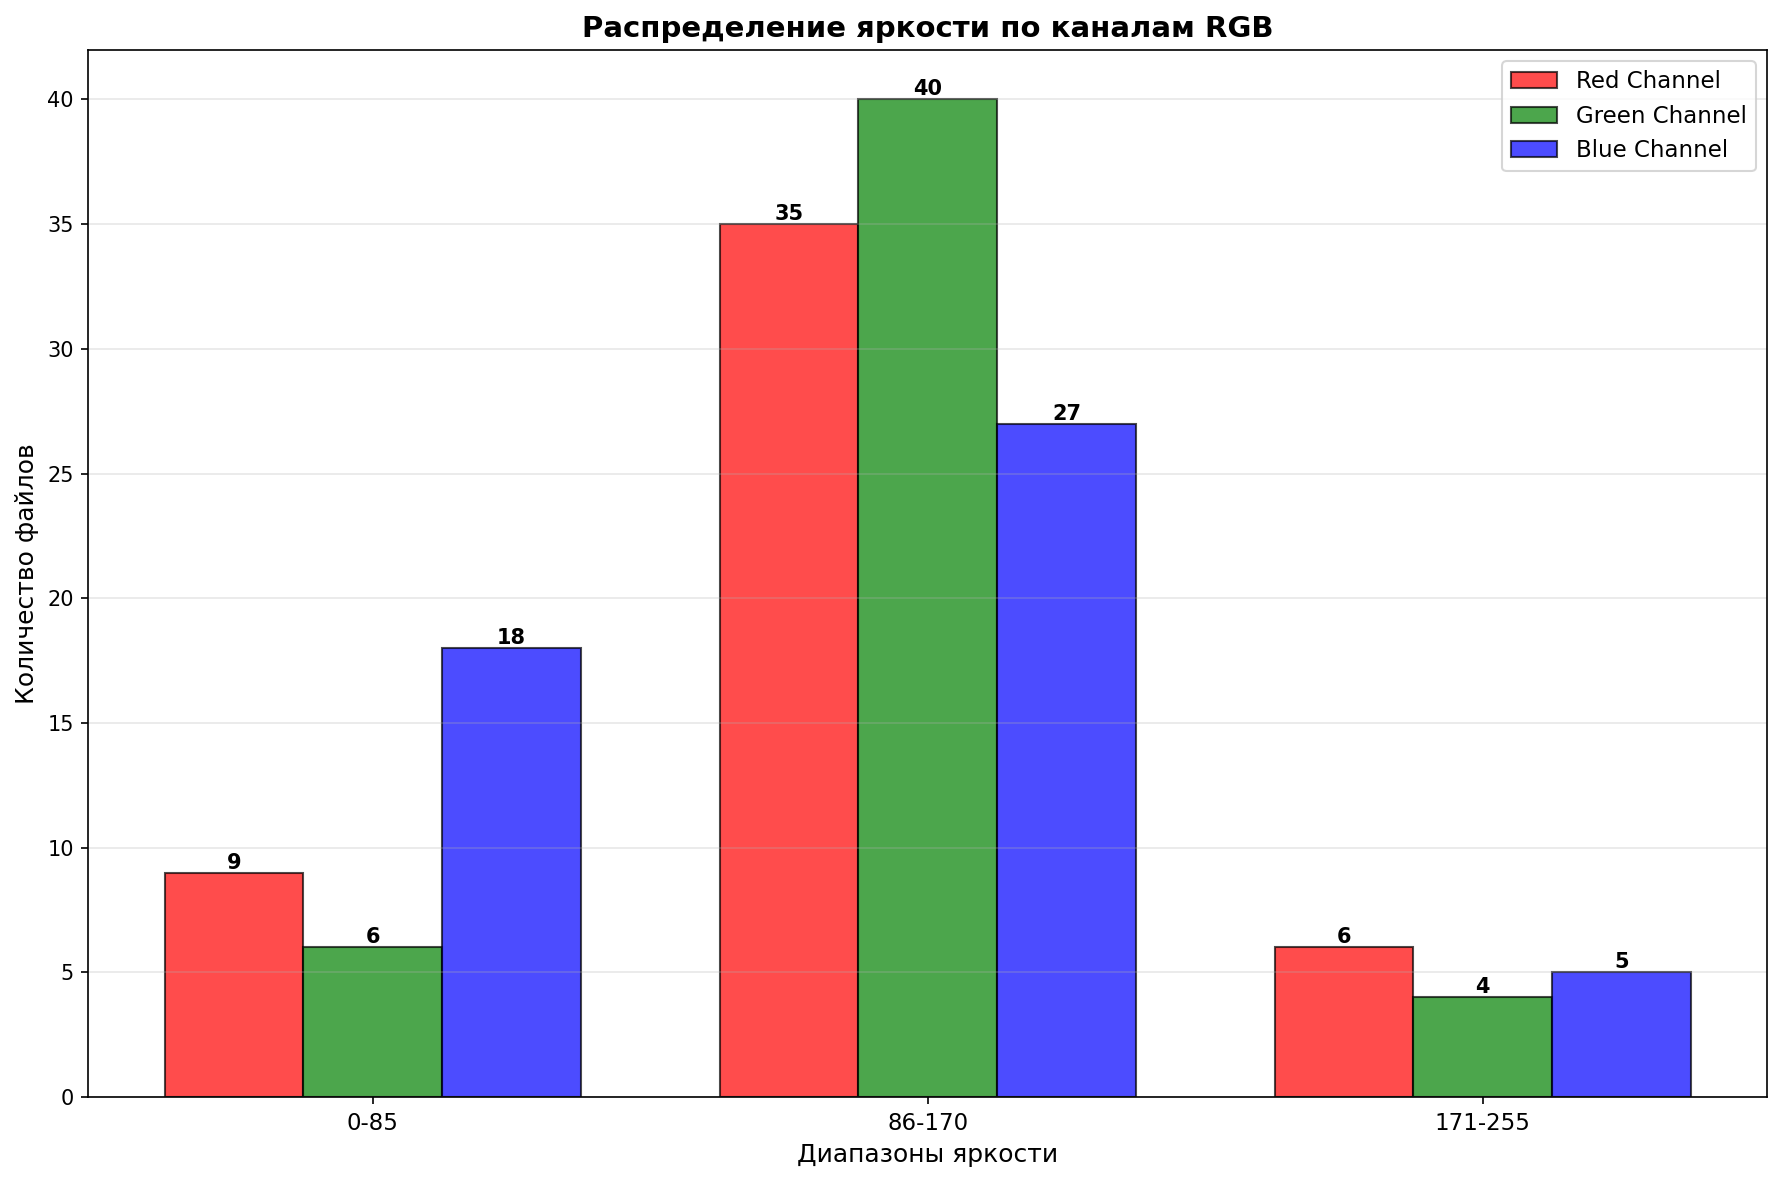
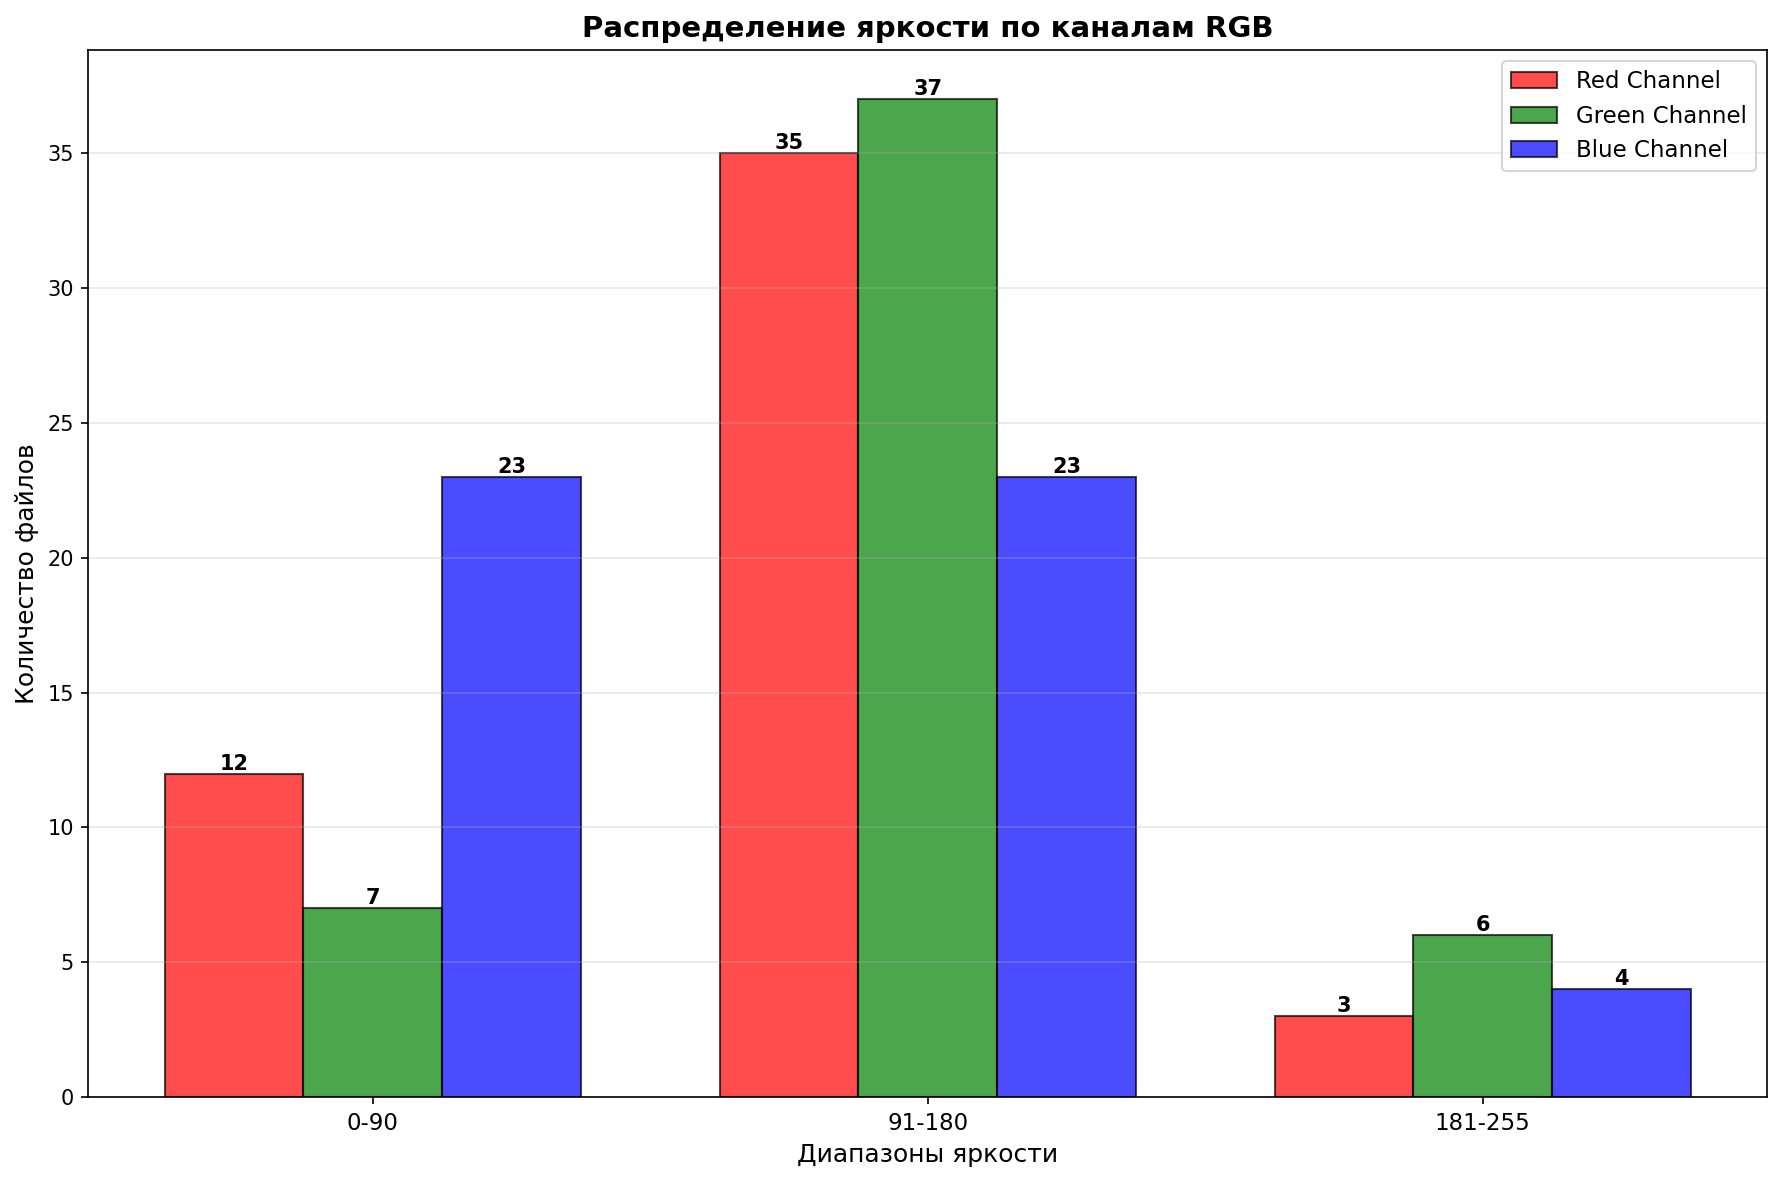
внесла изменения
также теперь при запуске необходимо указывать  python main.py --annotation annotations.csv --output_df output.csv --output_plot plot.png --ranges "0-50,51-150,151-255"(при необходимости менять значения диапазонов)

diff --git a/image_analyzer.py b/image_analyzer.py
@@ -7,17 +7,18 @@ import numpy as np
 class ImageAnalyzer:
     """Класс для анализа изображений."""
 
-    def __init__(self):
-        self.brightness_ranges = ["0-85", "86-170", "171-255"]
+    def __init__(self, brightness_ranges: List[Tuple[int, int, str]]):
+        self.brightness_ranges = brightness_ranges
+        self.range_names = [r[2] for r in brightness_ranges]
 
     def calculate_brightness_histogram(self, image_path: str) -> Tuple[List[int], List[int], List[int]]:
         """Вычисляет гистограммы яркости по каналам R, G, B."""
         try:
             image = cv2.imread(image_path)
             if image is None:
-                return [0, 0, 0], [0, 0, 0], [0, 0, 0]
+                return [0] * len(self.brightness_ranges), [0] * len(self.brightness_ranges), [0] * len(self.brightness_ranges)
 
-            # Разделяем на каналы BGR (OpenCV использует BGR по умолчанию)
+            # Разделяем на каналы BGR 
             b, g, r = cv2.split(image)
 
             # Вычисляем среднюю яркость для каждого канала
@@ -27,43 +28,49 @@ class ImageAnalyzer:
 
             return r_brightness, g_brightness, b_brightness
 
-        except Exception as e:
-            print(f"  Предупреждение: ошибка анализа {os.path.basename(image_path)}")
-            return [0, 0, 0], [0, 0, 0], [0, 0, 0]
+        except Exception:
+            return [0] * len(self.brightness_ranges), [0] * len(self.brightness_ranges), [0] * len(self.brightness_ranges)
 
     def _calculate_channel_brightness(self, channel: np.ndarray) -> List[int]:
         """Вычисляет распределение яркости канала по диапазонам."""
         try:
             # Вычисляем среднюю яркость для канала
             avg_brightness = np.mean(channel)
-
-            # Определяем диапазон и возвращаем бинарный вектор
-            if avg_brightness <= 85:
-                return [1, 0, 0]  
-            elif avg_brightness <= 170:
-                return [0, 1, 0]  
+            
+            # Создаем бинарный вектор для всех диапазонов
+            result = [0] * len(self.brightness_ranges)
+            
+            for i, (low, high, _) in enumerate(self.brightness_ranges):
+                if low <= avg_brightness <= high:
+                    result[i] = 1
+                    break
             else:
-                return [0, 0, 1]  
+                # Если не попали ни в один диапазон, выбираем ближайший
+                if avg_brightness < self.brightness_ranges[0][0]:
+                    result[0] = 1
+                else:
+                    result[-1] = 1
 
-        except Exception as e:
-            return [0, 0, 0]
+            return result
+
+        except Exception:
+            return [0] * len(self.brightness_ranges)
 
     def get_brightness_range(self, r_hist: List[int], g_hist: List[int], b_hist: List[int]) -> str:
         """Определяет общий диапазон яркости для изображения."""
         try:
             # Суммируем значения по всем каналам для каждого диапазона
-            total_low = r_hist[0] + g_hist[0] + b_hist[0]  
-            total_medium = r_hist[1] + g_hist[1] + b_hist[1] 
-            total_high = r_hist[2] + g_hist[2] + b_hist[2]  
+            totals = []
+            for i in range(len(self.brightness_ranges)):
+                total = r_hist[i] + g_hist[i] + b_hist[i]
+                totals.append(total)
 
             # Находим максимальный диапазон
-            totals = [total_low, total_medium, total_high]
             max_index = totals.index(max(totals))
+            return self.range_names[max_index]
 
-            return self.brightness_ranges[max_index]
-
-        except Exception as e:
-            return "0-85"  
+        except Exception:
+            return self.range_names[0] if self.range_names else "0-85"
 
     def get_brightness_stats(self, image_path: str) -> Dict:
         """Возвращает статистику яркости для одного изображения."""
@@ -83,9 +90,7 @@ class ImageAnalyzer:
 
     def _hist_to_range(self, hist: List[int]) -> str:
         """Конвертирует гистограмму в текстовый диапазон."""
-        if hist[0] == 1:
-            return "0-85"
-        elif hist[1] == 1:
-            return "86-170"
-        else:
-            return "171-255"
+        for i, value in enumerate(hist):
+            if value == 1:
+                return self.range_names[i]
+        return self.range_names[0] if self.range_names else "0-85"

diff --git a/visualizer.py b/visualizer.py
@@ -1,4 +1,4 @@
-from typing import List
+from typing import List, Tuple
 
 import matplotlib.pyplot as plt
 import numpy as np
@@ -7,13 +7,16 @@ import pandas as pd
 class Visualizer:
     """Класс для визуализации данных."""
 
+    def __init__(self, brightness_ranges: List[Tuple[int, int, str]]):
+        self.brightness_ranges = brightness_ranges
+        self.range_names = [r[2] for r in brightness_ranges]
+
     def plot_channel_histograms(self, df: pd.DataFrame, output_file: str):
         """Строит гистограммы распределения яркости по каналам RGB."""
         try:
             # Фильтруем только строки с данными о яркости
             valid_df = df[df['brightness_range'] != '']
             if len(valid_df) == 0:
-                print("  Нет данных для построения гистограмм каналов")
                 return
 
             # Суммируем гистограммы для всех изображений
@@ -21,8 +24,7 @@ class Visualizer:
             total_g_hist = np.sum([hist for hist in valid_df['g_histogram']], axis=0)
             total_b_hist = np.sum([hist for hist in valid_df['b_histogram']], axis=0)
 
-            ranges = ["0-85", "86-170", "171-255"]
-            x = np.arange(len(ranges))
+            x = np.arange(len(self.range_names))
             width = 0.25
 
             fig, ax = plt.subplots(figsize=(12, 8))
@@ -43,15 +45,13 @@ class Visualizer:
             ax.set_ylabel('Количество файлов', fontsize=12)
             ax.set_title('Распределение яркости по каналам RGB', fontsize=14, fontweight='bold')
             ax.set_xticks(x)
-            ax.set_xticklabels(ranges, fontsize=11)
+            ax.set_xticklabels(self.range_names, fontsize=11)
             ax.legend(fontsize=11)
             ax.grid(True, alpha=0.3, axis='y')
 
             plt.tight_layout()
             plt.savefig(output_file, dpi=150, bbox_inches='tight')
             plt.close()
-
-            print(f"Гистограммы каналов сохранены в {output_file}")
 
         except Exception as e:
             raise Exception(f"Ошибка построения гистограмм каналов: {e}")
@@ -62,18 +62,14 @@ class Visualizer:
             # Фильтруем только строки с данными о яркости
             valid_df = df[df['brightness_range'] != '']
             if len(valid_df) == 0:
-                print("  Нет данных для построения распределения яркости")
                 return
 
-            brightness_order = ["0-85", "86-170", "171-255"]
-
             brightness_counts = valid_df['brightness_range'].value_counts()
-
-            brightness_counts = brightness_counts.reindex(brightness_order, fill_value=0)
+            brightness_counts = brightness_counts.reindex(self.range_names, fill_value=0)
 
             plt.figure(figsize=(10, 6))
             bars = plt.bar(brightness_counts.index, brightness_counts.values,
-                          color=['#ff6b6b', '#51cf66', '#339af0'],
+                          color=['#ff6b6b', '#51cf66', '#339af0'][:len(self.range_names)],
                           alpha=0.7, edgecolor='black')
 
             # Добавляем значения на столбцы
@@ -91,8 +87,6 @@ class Visualizer:
 
             plt.savefig(output_file, dpi=150, bbox_inches='tight')
             plt.close()
-
-            print(f"График распределения сохранен в {output_file}")
 
         except Exception as e:
             raise Exception(f"Ошибка построения распределения яркости: {e}")

diff --git a/dataframe_manager.py b/dataframe_manager.py
@@ -15,7 +15,6 @@ class DataFrameManager:
             self.df = pd.read_csv(annotation_file)
             # Переименовываем колонки 
             self.df.columns = ['absolute_path', 'relative_path']
-            print(f"Успешно загружено {len(self.df)} записей из аннотации")
             return self.df
         except Exception as e:
             raise Exception(f"Ошибка создания DataFrame: {e}")
@@ -33,10 +32,7 @@ class DataFrameManager:
                 valid_paths.append(rel_path)
             elif os.path.exists(abs_path):
                 valid_paths.append(abs_path)
-            else:
-                print(f"  Файл не найден: {rel_path}")
 
-        print(f"  Найдено {len(valid_paths)} существующих файлов из {len(self.df)}")
         return valid_paths
 
     def add_brightness_columns(self, image_paths: List[str], brightness_data: List[dict]):
@@ -71,21 +67,17 @@ class DataFrameManager:
                         processed_count += 1
                         break
 
-            print(f"Данные о яркости добавлены для {processed_count} изображений")
-
         except Exception as e:
             raise Exception(f"Ошибка добавления колонок яркости: {e}")
 
-    def sort_by_brightness(self) -> pd.DataFrame:
+    def sort_by_brightness(self, brightness_ranges: List[Tuple[int, int, str]]) -> pd.DataFrame:
         """Сортирует DataFrame по диапазону яркости."""
         try:
             # Создаем порядок сортировки для диапазонов
-            range_order = {"0-85": 0, "86-170": 1, "171-255": 2}
+            range_order = {r[2]: i for i, r in enumerate(brightness_ranges)}
             df_sorted = self.df.copy()
             df_sorted['sort_order'] = df_sorted['brightness_range'].map(range_order)
             df_sorted = df_sorted.sort_values('sort_order').drop('sort_order', axis=1)
-
-            print("DataFrame отсортирован по яркости")
             return df_sorted
 
         except Exception as e:
@@ -95,7 +87,6 @@ class DataFrameManager:
         """Фильтрует DataFrame по диапазону яркости."""
         try:
             filtered_df = self.df[self.df['brightness_range'] == brightness_range]
-            print(f"Отфильтровано {len(filtered_df)} с диапазоном '{brightness_range}'")
             return filtered_df
         except Exception as e:
             raise Exception(f"Ошибка фильтрации: {e}")
@@ -109,7 +100,6 @@ class DataFrameManager:
                 'r_channel_range', 'g_channel_range', 'b_channel_range'
             ]
             self.df[columns_to_save].to_csv(output_file, index=False)
-            print(f"DataFrame сохранен в {output_file}")
         except Exception as e:
             raise Exception(f"Ошибка сохранения DataFrame: {e}")
 

diff --git a/main.py b/main.py
@@ -23,12 +23,29 @@ def main():
             '--output_plot', type=str, required=True,
             help='Файл для сохранения графика распределения'
         )
+        parser.add_argument(
+            '--ranges', type=str, default='0-85,86-170,171-255',
+            help='Диапазоны яркости в формате "0-50,51-150,151-255"'
+        )
         args = parser.parse_args()
+
+        # Парсинг диапазонов
+        brightness_ranges = []
+        try:
+            range_parts = args.ranges.split(',')
+            for range_part in range_parts:
+                low, high = map(int, range_part.split('-'))
+                brightness_ranges.append((low, high, f"{low}-{high}"))
+        except Exception as e:
+            print(f"Ошибка парсинга диапазонов: {e}")
+            print("Используются диапазоны по умолчанию: 0-85,86-170,171-255")
+            brightness_ranges = [(0, 85, "0-85"), (86, 170, "86-170"), (171, 255, "171-255")]
 
         print("=== Анализ яркости изображений ===")
         print(f"Файл аннотации: {args.annotation}")
         print(f"Выходной DataFrame: {args.output_df}")
         print(f"Выходной график: {args.output_plot}")
+        print(f"Диапазоны яркости: {[r[2] for r in brightness_ranges]}")
         print("=" * 50)
 
         print("\n1. Создаем DataFrame из аннотации...")
@@ -51,8 +68,8 @@ def main():
             return
 
         print("\n3. Анализируем яркость изображений...")
-        analyzer = ImageAnalyzer()
-        visualizer = Visualizer()
+        analyzer = ImageAnalyzer(brightness_ranges)
+        visualizer = Visualizer(brightness_ranges)
 
         brightness_data = []
 
@@ -71,10 +88,10 @@ def main():
 
         print("\n5. Демонстрация функций сортировки и фильтрации...")
 
-        df_sorted = df_manager.sort_by_brightness()
+        df_sorted = df_manager.sort_by_brightness(brightness_ranges)
 
         # Фильтрация по диапазонам
-        for brightness_range in ["0-85", "86-170", "171-255"]:
+        for brightness_range in [r[2] for r in brightness_ranges]:
             filtered_df = df_manager.filter_by_brightness(brightness_range)
             if len(filtered_df) > 0:
                 first_file = filtered_df.iloc[0]
@@ -100,6 +117,7 @@ def main():
         print(f"DataFrame сохранен в: {args.output_df}")
         print(f"График распределения сохранен в: {args.output_plot}")
         print(f"Гистограммы каналов сохранены в: channel_histograms.png")
+        print(f"Использованные диапазоны: {[r[2] for r in brightness_ranges]}")
 
         print("\nРабота программы завершена успешно!")
 
